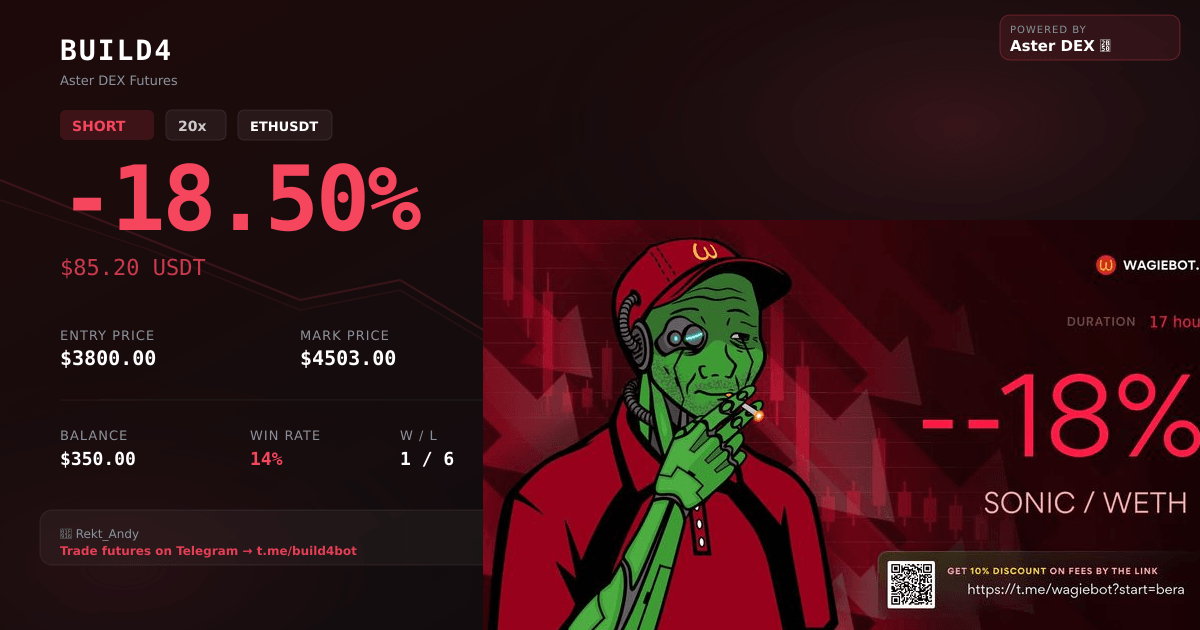
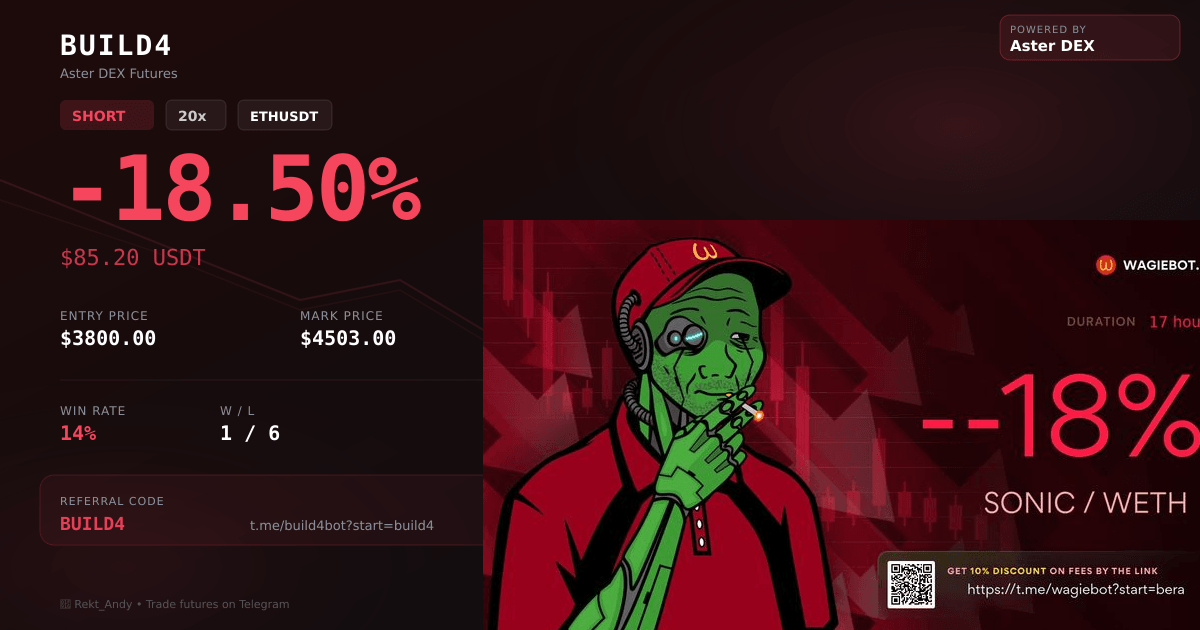
Remove user balances and add referral codes to trading performance shares
Replace balance information with referral codes and links in PnL sharing features, updating image generation, routes, and HTML pages.

Replit-Commit-Author: Agent
Replit-Commit-Session-Id: 50b0ce56-8de1-4daa-b829-3220f0ed5ee6
Replit-Commit-Checkpoint-Type: full_checkpoint
Replit-Commit-Event-Id: e9d7365f-d0af-4f09-9e7f-2217bda4ada6
Replit-Commit-Screenshot-Url: https://storage.googleapis.com/screenshot-production-us-central1/cc1a63c2-8162-4eb0-9328-bf25c1af4498/50b0ce56-8de1-4daa-b829-3220f0ed5ee6/6I9UsjH
Replit-Helium-Checkpoint-Created: true

diff --git a/server/pnl-image.ts b/server/pnl-image.ts
@@ -35,10 +35,10 @@ interface PnlCardParams {
   leverage: number;
   entryPrice: number;
   markPrice: number;
-  balance: number;
   name: string;
   wins: number;
   losses: number;
+  ref: string;
 }
 
 export async function generatePnlCardImage(p: PnlCardParams): Promise<Buffer> {
@@ -49,6 +49,8 @@ export async function generatePnlCardImage(p: PnlCardParams): Promise<Buffer> {
   const bgGrad2 = isProfit ? "#0b0e11" : "#0b0e11";
   const accentRgb = isProfit ? "14,203,129" : "246,70,93";
   const sideColor = p.side === "LONG" ? "#0ecb81" : "#f6465d";
+  const refCode = p.ref || "build4";
+  const refLink = `t.me/build4bot?start=${refCode}`;
 
   const mascotFile = isProfit
     ? (p.pnlPercent > 50 ? "chad-profit.png" : "pepe-profit.jpg")
@@ -75,6 +77,9 @@ export async function generatePnlCardImage(p: PnlCardParams): Promise<Buffer> {
   const winRate = p.wins + p.losses > 0 ? Math.round(p.wins / (p.wins + p.losses) * 100) : 0;
   const pnlSign = p.pnlUsd >= 0 ? "+" : "";
 
+  const hasTrade = p.symbol && p.symbol !== "BTCUSDT" || p.entryPrice > 0;
+  const showPrices = p.entryPrice > 0 && p.markPrice > 0;
+
   const svgOverlay = `<svg width="${CARD_W}" height="${CARD_H}" xmlns="http://www.w3.org/2000/svg">
   <defs>
     <linearGradient id="bg" x1="0" y1="0" x2="1" y2="1">
@@ -89,63 +94,64 @@ export async function generatePnlCardImage(p: PnlCardParams): Promise<Buffer> {
       <stop offset="0%" stop-color="rgba(${accentRgb},0.08)"/>
       <stop offset="100%" stop-color="transparent"/>
     </radialGradient>
-    <linearGradient id="chartGrad" x1="0" y1="0" x2="1" y2="0">
-      <stop offset="0%" stop-color="rgba(${accentRgb},0.3)"/>
-      <stop offset="100%" stop-color="rgba(${accentRgb},0.02)"/>
-    </linearGradient>
   </defs>
   <rect width="${CARD_W}" height="${CARD_H}" fill="url(#bg)"/>
   <rect width="${CARD_W}" height="${CARD_H}" fill="url(#glow1)"/>
   <rect width="${CARD_W}" height="${CARD_H}" fill="url(#glow2)"/>
 
   ${isProfit ? `
-  <polyline points="0,450 100,420 200,380 300,340 400,360 500,300 600,260 700,220 800,180" fill="none" stroke="rgba(${accentRgb},0.15)" stroke-width="2"/>
-  <polyline points="0,480 150,450 300,410 400,430 500,380 600,340 700,300 800,250" fill="none" stroke="rgba(${accentRgb},0.08)" stroke-width="1.5"/>
+  <polyline points="0,450 100,420 200,380 300,340 400,360 500,300 600,260 700,220 800,180" fill="none" stroke="rgba(${accentRgb},0.12)" stroke-width="2"/>
+  <polyline points="0,480 150,450 300,410 400,430 500,380 600,340 700,300 800,250" fill="none" stroke="rgba(${accentRgb},0.06)" stroke-width="1.5"/>
   ` : `
-  <polyline points="0,180 100,220 200,260 300,300 400,280 500,340 600,380 700,420 800,450" fill="none" stroke="rgba(${accentRgb},0.15)" stroke-width="2"/>
-  <polyline points="0,200 150,250 300,310 400,290 500,350 600,390 700,410 800,460" fill="none" stroke="rgba(${accentRgb},0.08)" stroke-width="1.5"/>
+  <polyline points="0,180 100,220 200,260 300,300 400,280 500,340 600,380 700,420 800,450" fill="none" stroke="rgba(${accentRgb},0.12)" stroke-width="2"/>
+  <polyline points="0,200 150,250 300,310 400,290 500,350 600,390 700,410 800,460" fill="none" stroke="rgba(${accentRgb},0.06)" stroke-width="1.5"/>
   `}
 
-  <text x="60" y="60" font-family="SF Mono,Consolas,monospace" font-size="28" font-weight="800" fill="#ffffff" letter-spacing="2">BUILD4</text>
-  <text x="60" y="85" font-family="Arial,sans-serif" font-size="13" fill="#8a919e">Aster DEX Futures</text>
+  <text x="60" y="55" font-family="SF Mono,Consolas,monospace" font-size="28" font-weight="800" fill="#ffffff" letter-spacing="2">BUILD4</text>
+  <text x="60" y="78" font-family="Arial,sans-serif" font-size="13" fill="#8a919e">Aster DEX Futures</text>
 
-  <rect x="60" y="110" width="${p.side.length * 14 + 24}" height="30" rx="6" fill="${sideColor}" opacity="0.15"/>
-  <text x="72" y="131" font-family="Arial,sans-serif" font-size="14" font-weight="700" fill="${sideColor}">${escXml(p.side)}</text>
+  ${hasTrade ? `
+  <rect x="60" y="100" width="${p.side.length * 14 + 24}" height="30" rx="6" fill="${sideColor}" opacity="0.15"/>
+  <text x="72" y="121" font-family="Arial,sans-serif" font-size="14" font-weight="700" fill="${sideColor}">${escXml(p.side)}</text>
+  <rect x="${72 + p.side.length * 14 + 24}" y="100" width="${String(p.leverage).length * 12 + 36}" height="30" rx="6" fill="rgba(255,255,255,0.06)" stroke="rgba(255,255,255,0.1)" stroke-width="1"/>
+  <text x="${84 + p.side.length * 14 + 24}" y="121" font-family="Arial,sans-serif" font-size="14" font-weight="600" fill="#ccc">${p.leverage}x</text>
+  <rect x="${84 + p.side.length * 14 + 24 + String(p.leverage).length * 12 + 36}" y="100" width="${p.symbol.length * 10 + 24}" height="30" rx="6" fill="rgba(255,255,255,0.06)" stroke="rgba(255,255,255,0.1)" stroke-width="1"/>
+  <text x="${96 + p.side.length * 14 + 24 + String(p.leverage).length * 12 + 36}" y="121" font-family="Arial,sans-serif" font-size="13" font-weight="600" fill="#fff">${escXml(p.symbol)}</text>
+  ` : `
+  <text x="60" y="121" font-family="Arial,sans-serif" font-size="16" font-weight="600" fill="#8a919e">Overall Performance</text>
+  `}
 
-  <rect x="${72 + p.side.length * 14 + 24}" y="110" width="${String(p.leverage).length * 12 + 36}" height="30" rx="6" fill="rgba(255,255,255,0.06)" stroke="rgba(255,255,255,0.1)" stroke-width="1"/>
-  <text x="${84 + p.side.length * 14 + 24}" y="131" font-family="Arial,sans-serif" font-size="14" font-weight="600" fill="#ccc">${p.leverage}x</text>
+  <text x="60" y="220" font-family="SF Mono,Consolas,monospace" font-size="90" font-weight="900" fill="${pnlColor}" letter-spacing="-3">${escXml(pctText)}</text>
 
-  <rect x="${84 + p.side.length * 14 + 24 + String(p.leverage).length * 12 + 36}" y="110" width="${p.symbol.length * 10 + 24}" height="30" rx="6" fill="rgba(255,255,255,0.06)" stroke="rgba(255,255,255,0.1)" stroke-width="1"/>
-  <text x="${96 + p.side.length * 14 + 24 + String(p.leverage).length * 12 + 36}" y="131" font-family="Arial,sans-serif" font-size="13" font-weight="600" fill="#fff">${escXml(p.symbol)}</text>
+  <text x="60" y="265" font-family="SF Mono,Consolas,monospace" font-size="22" fill="${pnlColor}" opacity="0.8">${pnlSign}$${Math.abs(p.pnlUsd).toFixed(2)} USDT</text>
 
-  <text x="60" y="230" font-family="SF Mono,Consolas,monospace" font-size="90" font-weight="900" fill="${pnlColor}" letter-spacing="-3">${escXml(pctText)}</text>
+  ${showPrices ? `
+  <text x="60" y="320" font-family="Arial,sans-serif" font-size="12" fill="#8a919e" letter-spacing="1">ENTRY PRICE</text>
+  <text x="60" y="345" font-family="SF Mono,Consolas,monospace" font-size="20" font-weight="700" fill="#ffffff">$${p.entryPrice.toFixed(p.entryPrice < 1 ? 6 : 2)}</text>
 
-  <text x="60" y="275" font-family="SF Mono,Consolas,monospace" font-size="22" fill="${pnlColor}" opacity="0.8">${pnlSign}$${Math.abs(p.pnlUsd).toFixed(2)} USDT</text>
+  <text x="300" y="320" font-family="Arial,sans-serif" font-size="12" fill="#8a919e" letter-spacing="1">MARK PRICE</text>
+  <text x="300" y="345" font-family="SF Mono,Consolas,monospace" font-size="20" font-weight="700" fill="#ffffff">$${p.markPrice.toFixed(p.markPrice < 1 ? 6 : 2)}</text>
+  ` : ''}
 
-  <text x="60" y="340" font-family="Arial,sans-serif" font-size="13" fill="#8a919e" letter-spacing="1">ENTRY PRICE</text>
-  <text x="60" y="365" font-family="SF Mono,Consolas,monospace" font-size="20" font-weight="700" fill="#ffffff">$${p.entryPrice.toFixed(p.entryPrice < 1 ? 6 : 2)}</text>
+  <line x1="60" y1="380" x2="550" y2="380" stroke="rgba(255,255,255,0.06)" stroke-width="1"/>
 
-  <text x="300" y="340" font-family="Arial,sans-serif" font-size="13" fill="#8a919e" letter-spacing="1">MARK PRICE</text>
-  <text x="300" y="365" font-family="SF Mono,Consolas,monospace" font-size="20" font-weight="700" fill="#ffffff">$${p.markPrice.toFixed(p.markPrice < 1 ? 6 : 2)}</text>
+  <text x="60" y="415" font-family="Arial,sans-serif" font-size="12" fill="#8a919e" letter-spacing="1">WIN RATE</text>
+  <text x="60" y="440" font-family="SF Mono,Consolas,monospace" font-size="20" font-weight="700" fill="${winRate >= 50 ? '#0ecb81' : '#f6465d'}">${winRate}%</text>
 
-  <line x1="60" y1="400" x2="550" y2="400" stroke="rgba(255,255,255,0.06)" stroke-width="1"/>
+  <text x="220" y="415" font-family="Arial,sans-serif" font-size="12" fill="#8a919e" letter-spacing="1">W / L</text>
+  <text x="220" y="440" font-family="SF Mono,Consolas,monospace" font-size="20" font-weight="700" fill="#ffffff">${p.wins} / ${p.losses}</text>
 
-  <text x="60" y="440" font-family="Arial,sans-serif" font-size="13" fill="#8a919e" letter-spacing="1">BALANCE</text>
-  <text x="60" y="465" font-family="SF Mono,Consolas,monospace" font-size="18" font-weight="700" fill="#ffffff">$${p.balance.toFixed(2)}</text>
+  <rect x="40" y="475" width="560" height="70" rx="14" fill="rgba(${accentRgb},0.06)" stroke="rgba(${accentRgb},0.2)" stroke-width="1"/>
+  <text x="60" y="505" font-family="Arial,sans-serif" font-size="11" fill="#8a919e" letter-spacing="1">REFERRAL CODE</text>
+  <text x="60" y="530" font-family="SF Mono,Consolas,monospace" font-size="18" font-weight="800" fill="rgba(${accentRgb},0.9)">${escXml(refCode.toUpperCase())}</text>
+  <text x="250" y="530" font-family="Arial,sans-serif" font-size="13" fill="#8a919e">${escXml(refLink)}</text>
 
-  <text x="250" y="440" font-family="Arial,sans-serif" font-size="13" fill="#8a919e" letter-spacing="1">WIN RATE</text>
-  <text x="250" y="465" font-family="SF Mono,Consolas,monospace" font-size="18" font-weight="700" fill="${winRate >= 50 ? '#0ecb81' : '#f6465d'}">${winRate}%</text>
-
-  <text x="400" y="440" font-family="Arial,sans-serif" font-size="13" fill="#8a919e" letter-spacing="1">W / L</text>
-  <text x="400" y="465" font-family="SF Mono,Consolas,monospace" font-size="18" font-weight="700" fill="#ffffff">${p.wins} / ${p.losses}</text>
-
-  <rect x="40" y="510" width="520" height="55" rx="12" fill="rgba(255,255,255,0.04)" stroke="rgba(255,255,255,0.08)" stroke-width="1"/>
-  <text x="60" y="538" font-family="Arial,sans-serif" font-size="12" fill="#8a919e">🤖 ${escXml(p.name)}</text>
-  <text x="60" y="555" font-family="Arial,sans-serif" font-size="12" font-weight="600" fill="rgba(${accentRgb},0.9)">Trade futures on Telegram → t.me/build4bot</text>
+  <rect x="40" y="${CARD_H - 40}" width="400" height="25" rx="0" fill="transparent"/>
+  <text x="60" y="${CARD_H - 22}" font-family="Arial,sans-serif" font-size="11" fill="#555">🤖 ${escXml(p.name)} • Trade futures on Telegram</text>
 
   <rect x="${CARD_W - 200}" y="15" width="180" height="45" rx="10" fill="rgba(${accentRgb},0.1)" stroke="rgba(${accentRgb},0.3)" stroke-width="1"/>
   <text x="${CARD_W - 190}" y="33" font-family="Arial,sans-serif" font-size="10" fill="#8a919e" letter-spacing="1">POWERED BY</text>
-  <text x="${CARD_W - 190}" y="51" font-family="Arial,sans-serif" font-size="15" font-weight="700" fill="#ffffff">Aster DEX ⭐</text>
+  <text x="${CARD_W - 190}" y="51" font-family="Arial,sans-serif" font-size="15" font-weight="700" fill="#ffffff">Aster DEX</text>
 </svg>`;
 
   const svgBuf = Buffer.from(svgOverlay);

diff --git a/server/miniapp-routes.ts b/server/miniapp-routes.ts
@@ -74,10 +74,10 @@ export function registerMiniAppRoutes(app: Express) {
         leverage: parseInt(q.lev as string || "5"),
         entryPrice: parseFloat(q.ep as string || "0"),
         markPrice: parseFloat(q.mp as string || "0"),
-        balance: parseFloat(q.bal as string || "0"),
         name: decodeURIComponent(q.name as string || "Trader"),
         wins: parseInt(q.w as string || "0"),
         losses: parseInt(q.l as string || "0"),
+        ref: decodeURIComponent(q.ref as string || "build4"),
       });
       res.status(200).set({
         "Content-Type": "image/png",
@@ -91,14 +91,12 @@ export function registerMiniAppRoutes(app: Express) {
 
   app.get("/pnl", (req: Request, res: Response) => {
     const q = req.query;
-    const bal = parseFloat(q.bal as string || "0");
     const pnl = parseFloat(q.pnl as string || "0");
-    const rpnl = parseFloat(q.rpnl as string || "0");
-    const upnl = parseFloat(q.upnl as string || "0");
     const wins = parseInt(q.w as string || "0");
     const losses = parseInt(q.l as string || "0");
     const pos = parseInt(q.pos as string || "0");
     const name = decodeURIComponent(q.name as string || "Trader");
+    const ref = decodeURIComponent(q.ref as string || "build4");
     const pctParam = q.pct as string || "0";
     const symParam = q.sym as string || "BTCUSDT";
     const sideParam = q.side as string || "LONG";
@@ -107,23 +105,26 @@ export function registerMiniAppRoutes(app: Express) {
     const mpParam = q.mp as string || "0";
     const pnlSign = pnl >= 0 ? "+" : "";
     const pnlText = `${pnlSign}$${Math.abs(pnl).toFixed(2)}`;
+    const pctVal = parseFloat(pctParam);
+    const pctText = `${pctVal >= 0 ? "+" : ""}${pctVal.toFixed(2)}%`;
     const winRate = wins + losses > 0 ? Math.round(wins / (wins + losses) * 100) : 0;
     const pnlColor = pnl >= 0 ? "#0ecb81" : "#f85149";
     const accentRgb = pnl >= 0 ? "14,203,129" : "248,81,73";
-    const ogImageUrl = `https://build4-1.onrender.com/pnl/image?pct=${pctParam}&pnl=${pnl}&sym=${encodeURIComponent(symParam)}&side=${sideParam}&lev=${levParam}&ep=${epParam}&mp=${mpParam}&bal=${bal}&name=${encodeURIComponent(name)}&w=${wins}&l=${losses}`;
+    const refLink = `https://t.me/build4bot?start=${ref}`;
+    const ogImageUrl = `https://build4-1.onrender.com/pnl/image?pct=${pctParam}&pnl=${pnl}&sym=${encodeURIComponent(symParam)}&side=${sideParam}&lev=${levParam}&ep=${epParam}&mp=${mpParam}&name=${encodeURIComponent(name)}&w=${wins}&l=${losses}&ref=${encodeURIComponent(ref)}`;
 
     const html = `<!DOCTYPE html><html><head>
 <meta charset="utf-8"><meta name="viewport" content="width=device-width,initial-scale=1">
 <title>${name} | PnL Card — BUILD4</title>
 <meta property="og:title" content="${name}'s Trading Performance">
-<meta property="og:description" content="PnL: ${pnlText} | Balance: $${bal.toFixed(2)} | Win Rate: ${winRate}% (${wins}W/${losses}L) | ${pos} open positions">
+<meta property="og:description" content="PnL: ${pnlText} (${pctText}) | Win Rate: ${winRate}% (${wins}W/${losses}L) | Trade futures on Aster DEX via Telegram">
 <meta property="og:image" content="${ogImageUrl}">
 <meta property="og:image:width" content="1200">
 <meta property="og:image:height" content="630">
 <meta property="og:type" content="website">
 <meta name="twitter:card" content="summary_large_image">
 <meta name="twitter:title" content="${name}'s Trading Performance — BUILD4">
-<meta name="twitter:description" content="PnL: ${pnlText} | Balance: $${bal.toFixed(2)} | Win Rate: ${winRate}% | Trade futures on Aster DEX via Telegram">
+<meta name="twitter:description" content="PnL: ${pnlText} (${pctText}) | Win Rate: ${winRate}% | Trade futures on Aster DEX via Telegram">
 <meta name="twitter:image" content="${ogImageUrl}">
 <style>
 *{margin:0;padding:0;box-sizing:border-box}
@@ -138,12 +139,15 @@ body{min-height:100vh;display:flex;align-items:center;justify-content:center;bac
 .pnl-section{text-align:center;padding:20px 0;position:relative;z-index:1}
 .pnl-label{font-size:11px;letter-spacing:1.5px;text-transform:uppercase;color:#8a919e;font-weight:500}
 .pnl-val{font-size:42px;font-weight:800;color:${pnlColor};font-family:'SF Mono',SFMono-Regular,Consolas,monospace;margin:8px 0;letter-spacing:-1px}
-.bal-val{font-size:14px;color:#aaa;font-family:'SF Mono',SFMono-Regular,Consolas,monospace}
-.stats{display:grid;grid-template-columns:1fr 1fr 1fr;gap:10px;margin-top:20px;position:relative;z-index:1}
+.pct-val{font-size:18px;color:${pnlColor};font-family:'SF Mono',SFMono-Regular,Consolas,monospace;opacity:0.8}
+.stats{display:grid;grid-template-columns:1fr 1fr;gap:10px;margin-top:20px;position:relative;z-index:1}
 .stat{text-align:center;padding:12px 8px;background:rgba(255,255,255,0.03);border-radius:12px;border:1px solid rgba(255,255,255,0.05)}
 .stat-label{font-size:10px;color:#8a919e;text-transform:uppercase;letter-spacing:.5px;font-weight:500}
 .stat-val{font-size:16px;font-weight:700;margin-top:4px;font-family:'SF Mono',SFMono-Regular,Consolas,monospace}
 .green{color:#0ecb81}.red{color:#f85149}.white{color:#fff}
+.ref-section{margin-top:20px;padding:16px;background:rgba(${accentRgb},0.06);border:1px solid rgba(${accentRgb},0.2);border-radius:14px;text-align:center;position:relative;z-index:1}
+.ref-label{font-size:10px;color:#8a919e;text-transform:uppercase;letter-spacing:1px}
+.ref-code{font-size:22px;font-weight:800;color:rgba(${accentRgb},0.9);font-family:'SF Mono',SFMono-Regular,Consolas,monospace;margin:6px 0}
 .footer{margin-top:24px;padding-top:16px;border-top:1px solid rgba(255,255,255,0.06);display:flex;align-items:center;justify-content:space-between;position:relative;z-index:1}
 .brand{color:#8a919e;font-size:12px;font-weight:600;letter-spacing:.5px}
 .powered{color:#555;font-size:10px}
@@ -154,21 +158,21 @@ body{min-height:100vh;display:flex;align-items:center;justify-content:center;bac
 <div class="glow"></div><div class="glow2"></div>
 <div class="header"><div class="avatar">🤖</div><div><div class="name">${name}</div><div class="subtitle">Aster DEX Futures</div></div></div>
 <div class="pnl-section">
-<div class="pnl-label">Total PnL</div>
+<div class="pnl-label">PnL</div>
 <div class="pnl-val">${pnlText}</div>
-<div class="bal-val">Balance: $${bal.toFixed(2)}</div>
+<div class="pct-val">${pctText}</div>
 </div>
 <div class="stats">
 <div class="stat"><div class="stat-label">Win Rate</div><div class="stat-val ${winRate >= 50 ? 'green' : 'red'}">${winRate}%</div></div>
 <div class="stat"><div class="stat-label">W / L</div><div class="stat-val white"><span class="green">${wins}</span> / <span class="red">${losses}</span></div></div>
-<div class="stat"><div class="stat-label">Positions</div><div class="stat-val white">${pos}</div></div>
 </div>
-<div class="stats" style="grid-template-columns:1fr 1fr;margin-top:10px">
-<div class="stat"><div class="stat-label">Unrealized</div><div class="stat-val ${upnl >= 0 ? 'green' : 'red'}">${upnl >= 0 ? '+' : ''}$${Math.abs(upnl).toFixed(2)}</div></div>
-<div class="stat"><div class="stat-label">Realized</div><div class="stat-val ${rpnl >= 0 ? 'green' : 'red'}">${rpnl >= 0 ? '+' : ''}$${Math.abs(rpnl).toFixed(2)}</div></div>
+<div class="ref-section">
+<div class="ref-label">Referral Code</div>
+<div class="ref-code">${ref.toUpperCase()}</div>
+<div style="font-size:12px;color:#8a919e;margin-top:4px">${refLink}</div>
 </div>
 <div class="footer"><span class="brand">BUILD4</span><span class="powered">Powered by Aster DEX</span></div>
-<div class="cta"><a href="https://t.me/build4bot">Start Trading on Telegram →</a></div>
+<div class="cta"><a href="${refLink}">Start Trading on Telegram →</a></div>
 </div></body></html>`;
 
     res.status(200).set({

diff --git a/server/miniapp-html.ts b/server/miniapp-html.ts
@@ -657,10 +657,12 @@ async function doTransfer(amount){
 }
 
 
-function sharePnl(posIdx){
+async function sharePnl(posIdx){
   var agentName=(AG&&AG.config&&AG.config.name)?AG.config.name:'Trader';
-  var totalBal=(D.walletBalance||0)+(D.bscBalance||0);
   var w=D.wins||0,l=D.losses||0;
+  var ref='build4';
+  var imgParams='';
+  var shareText='';
   if(typeof posIdx==='number'&&D.positions&&D.positions[posIdx]){
     var p=D.positions[posIdx];
     var pnlVal=parseFloat(p.unrealizedPnl||0);
@@ -670,23 +672,40 @@ function sharePnl(posIdx){
     var sym=p.symbol||'BTCUSDT';
     var side=p.positionSide||'LONG';
     var lev=parseInt(p.leverage||5);
-    var cardUrl='https://build4-1.onrender.com/pnl?bal='+totalBal.toFixed(2)+'&pnl='+pnlVal.toFixed(2)+'&pct='+pctVal.toFixed(2)+'&sym='+encodeURIComponent(sym)+'&side='+side+'&lev='+lev+'&ep='+entryP+'&mp='+markP+'&w='+w+'&l='+l+'&name='+encodeURIComponent(agentName);
+    imgParams='pct='+pctVal.toFixed(2)+'&pnl='+pnlVal.toFixed(2)+'&sym='+encodeURIComponent(sym)+'&side='+side+'&lev='+lev+'&ep='+entryP+'&mp='+markP+'&w='+w+'&l='+l+'&name='+encodeURIComponent(agentName)+'&ref='+ref;
     var pSign=pnlVal>=0?'+':'';
-    var tweetText=pSign+pctVal.toFixed(2)+'% on '+sym+' ('+side+' '+lev+'x) via @build4bot 🤖\\n';
-    tweetText+=pSign+'$'+Math.abs(pnlVal).toFixed(2)+' USDT unrealized\\n\\n';
-    tweetText+='Trade futures on @AsterDEX from Telegram 👇';
+    shareText=pSign+pctVal.toFixed(2)+'% on '+sym+' ('+side+' '+lev+'x)\\n\\nTrade on @AsterDEX via @build4bot\\nhttps://t.me/build4bot?start='+ref;
   }else{
     var totalPnl=(D.unrealizedPnl||0)+(D.realizedPnl||0);
     var pSign2=totalPnl>=0?'+':'';
-    var cardUrl='https://build4-1.onrender.com/pnl?bal='+totalBal.toFixed(2)+'&pnl='+totalPnl.toFixed(2)+'&rpnl='+(D.realizedPnl||0).toFixed(2)+'&upnl='+(D.unrealizedPnl||0).toFixed(2)+'&w='+w+'&l='+l+'&pos='+((D.positions||[]).length)+'&name='+encodeURIComponent(agentName);
-    var tweetText=pSign2+'$'+Math.abs(totalPnl).toFixed(2)+' PnL trading futures on @AsterDEX via @build4bot 🤖\\n\\n';
-    tweetText+='Balance: $'+totalBal.toFixed(2)+'\\n';
-    if(w+l>0)tweetText+='Win Rate: '+Math.round(w/(w+l)*100)+'% ('+w+'W/'+l+'L)\\n';
-    if((D.positions||[]).length>0)tweetText+=(D.positions||[]).length+' open position'+(D.positions.length>1?'s':'')+'\\n';
-    tweetText+='\\nTrade from Telegram 👇';
+    imgParams='pnl='+totalPnl.toFixed(2)+'&w='+w+'&l='+l+'&pos='+((D.positions||[]).length)+'&name='+encodeURIComponent(agentName)+'&ref='+ref;
+    shareText=pSign2+'$'+Math.abs(totalPnl).toFixed(2)+' PnL trading futures on @AsterDEX via @build4bot\\n';
+    if(w+l>0)shareText+='Win Rate: '+Math.round(w/(w+l)*100)+'%\\n';
+    shareText+='\\nhttps://t.me/build4bot?start='+ref;
   }
-  var twitterUrl='https://twitter.com/intent/tweet?text='+encodeURIComponent(tweetText)+'&url='+encodeURIComponent(cardUrl);
-  window.open(twitterUrl,'_blank');
+  toast('Generating card...','info');
+  try{
+    var imgUrl='/pnl/image?'+imgParams;
+    var resp=await fetch(imgUrl);
+    if(!resp.ok)throw new Error('Image generation failed');
+    var blob=await resp.blob();
+    var file=new File([blob],'pnl-card.png',{type:'image/png'});
+    if(navigator.share&&navigator.canShare&&navigator.canShare({files:[file]})){
+      await navigator.share({text:shareText,files:[file]});
+      toast('Shared!','ok');
+    }else{
+      var a=document.createElement('a');
+      a.href=URL.createObjectURL(blob);
+      a.download='pnl-card.png';
+      a.click();
+      URL.revokeObjectURL(a.href);
+      toast('Image downloaded — share it on X!','ok');
+    }
+  }catch(e){
+    if(e.name==='AbortError')return;
+    console.error('Share error:',e);
+    toast('Share failed: '+e.message,'err');
+  }
 }
 async function forceRefresh(){
   toast('Refreshing...','info');
